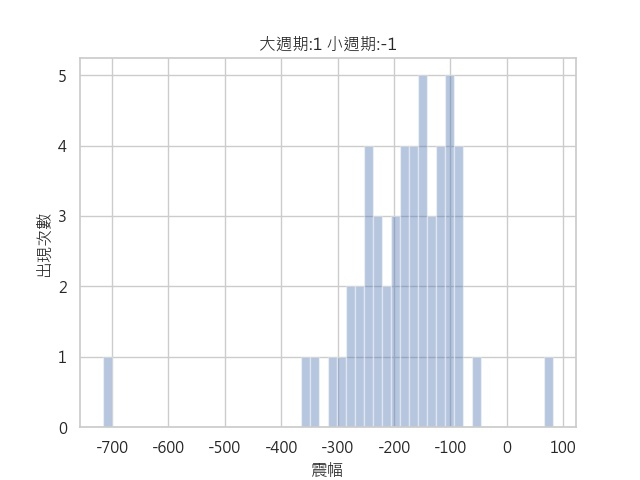
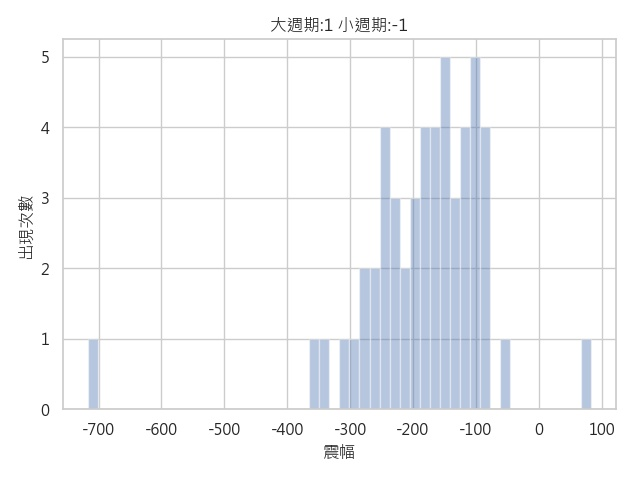
Modify time charts

diff --git a/high_low.py b/high_low.py
@@ -70,16 +70,18 @@ def big_small_times_amp_count(big_type, small_type):
         tmp = df.loc[(df.pre_date >= row['pre_date']) & (df.now_date <= row['now_date'])]
         ans = ans.append(tmp)
     # print(ans[name].value_counts())
-    ans['time'].value_counts().plot(kind='bar')
+    ans['time'].value_counts().sort_index().plot(kind='bar')
     plt.xlabel('時間')
     plt.ylabel('出現次數')
     plt.title('大週期:' + str(big_type) + ' 小週期:' + str(small_type))
+    plt.tight_layout()
     plt.savefig('震幅與時間次數圖/' + '大週期-' + str(big_type) + ' 小週期-' + str(small_type) + '時間.jpg')
     plt.show()
     sns.distplot(ans['amp'], kde=False, bins=50)
     plt.xlabel('震幅')
     plt.ylabel('出現次數')
     plt.title('大週期:' + str(big_type) + ' 小週期:' + str(small_type))
+    plt.tight_layout()
     plt.savefig('震幅與時間次數圖/' + '大週期-' + str(big_type) + ' 小週期-' + str(small_type) + '震幅.jpg')
     plt.show()
 
